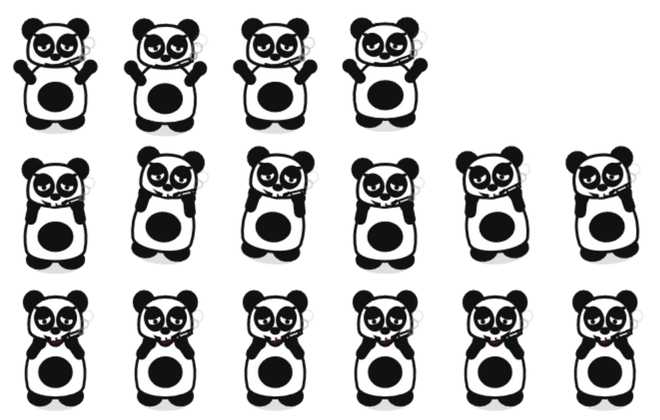
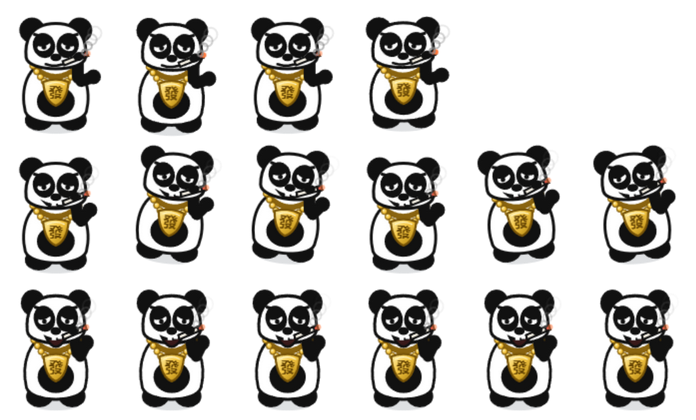
熊猫人重画：叼烟 + 手掐着烟 + 大金链子，整体更夸张
- 左手抬到嘴边，两根手指捏住烟身，烟从嘴里斜插出来被手掐着，
  烟头还有一闪一闪的火星
- 脖子挂一圈大金链子：13 颗带金属高光的金珠，
  下面坠一块夸张的大金牌，牌面一个「發」字
- 头、眼罩、耳朵都加大，身子也加宽，撑得起链子
- 全图只有金链子是高饱和色，故意在黑白画面里形成冲击
- 表情保持原样：黑眼罩 + 半眯懒眼 + 粗斜眉 + 歪嘴
- 烟圈改从手掐的位置飘出来

diff --git a/build/make-skins.js b/build/make-skins.js
@@ -303,130 +303,189 @@ function drawDragon(ctx, q, p, kind) {
 }
 
 /* ============================================================ ③ 熊猫人 */
-/* 抽象版熊猫人：直接照「熊猫头」梗图的画法 —— 黑白两色、粗线条、
-   白脸膛 + 黑耳朵 + 黑眼罩，里面塞一张手绘的「三分讥笑」脸，还叼根烟。 */
+/* 夸张版熊猫头：嘴里叼烟、手抬起来掐着烟、脖挂大金链子
+   画风沿用梗图那套：纯黑白 + 粗线条，金链子是全图唯一的高饱和色，
+   故意做得又粗又亮，形成「黑白画面里一条大金链子」的冲击感。 */
 function drawPanda(ctx, q, p, kind) {
   const LINE = '#111111';
   const look = Math.sin(p * TAU) * 2.4;
   const smug = kind === 'cheer' ? 1 : kind === 'dance' ? 0.6 : 0.3;
-  const smoke = (p * 2) % 1;                       // 吐烟的节奏
-  shadow(ctx, 56, 24);
+  const smoke = (p * 2) % 1;
+  shadow(ctx, 58, 28);
 
-  /* 黑腿 */
+  /* ---- 黑腿 ---- */
   [-1, 1].forEach(function (sg) {
-    ctx.beginPath(); ctx.ellipse(sg * 18, 46, 14, 10, 0, 0, TAU);
+    ctx.beginPath(); ctx.ellipse(sg * 20, 48, 15, 11, 0, 0, TAU);
     ctx.fillStyle = '#111111'; ctx.fill();
     ctx.lineWidth = 3; ctx.strokeStyle = LINE; ctx.stroke();
   });
 
-  /* 白身子 + 黑肚子 */
+  /* ---- 白身子（比上一版更宽，撑得起大链子） ---- */
   ctx.beginPath();
-  ctx.moveTo(0, -20);
-  ctx.bezierCurveTo(32, -20, 38, 14, 33, 36);
-  ctx.bezierCurveTo(28, 52, -28, 52, -33, 36);
-  ctx.bezierCurveTo(-38, 14, -32, -20, 0, -20);
-  ctx.closePath();
-  ctx.fillStyle = '#FFFFFF'; ctx.fill();
-  ctx.lineWidth = 3.2; ctx.strokeStyle = LINE; ctx.stroke();
-  ctx.beginPath(); ctx.ellipse(0, 20, 19, 16, 0, 0, TAU);
-  ctx.fillStyle = '#111111'; ctx.fill();
-  ctx.lineWidth = 2.6; ctx.strokeStyle = LINE; ctx.stroke();
-
-  /* 黑手臂 */
-  const a = -0.3 - q.arm * 2.0;
-  [-1, 1].forEach(function (sg) {
-    const ex = sg * (30 + Math.cos(a) * 17), ey = 0 + Math.sin(a) * 17;
-    ctx.lineCap = 'round';
-    ctx.beginPath(); ctx.moveTo(sg * 28, 0); ctx.lineTo(ex, ey);
-    ctx.lineWidth = 13; ctx.strokeStyle = '#111111'; ctx.stroke();
-    ctx.beginPath(); ctx.arc(ex, ey, 7, 0, TAU);
-    ctx.fillStyle = '#111111'; ctx.fill();
-    ctx.lineWidth = 2.6; ctx.strokeStyle = LINE; ctx.stroke();
-  });
-
-  /* 大黑耳朵（先在头后面画） */
-  [-1, 1].forEach(function (sg) {
-    ctx.beginPath(); ctx.arc(sg * 25, -56, 12, 0, TAU);
-    ctx.fillStyle = '#111111'; ctx.fill();
-    ctx.lineWidth = 3; ctx.strokeStyle = LINE; ctx.stroke();
-  });
-
-  /* 白脸膛 */
-  ctx.beginPath();
-  ctx.moveTo(0, -62);
-  ctx.bezierCurveTo(28, -62, 33, -42, 31, -26);
-  ctx.bezierCurveTo(29, -10, -29, -10, -31, -26);
-  ctx.bezierCurveTo(-33, -42, -28, -62, 0, -62);
+  ctx.moveTo(0, -22);
+  ctx.bezierCurveTo(36, -22, 42, 14, 36, 38);
+  ctx.bezierCurveTo(30, 56, -30, 56, -36, 38);
+  ctx.bezierCurveTo(-42, 14, -36, -22, 0, -22);
   ctx.closePath();
   ctx.fillStyle = '#FFFFFF'; ctx.fill();
   ctx.lineWidth = 3.4; ctx.strokeStyle = LINE; ctx.stroke();
+  /* 黑肚兜 */
+  ctx.beginPath(); ctx.ellipse(0, 26, 21, 17, 0, 0, TAU);
+  ctx.fillStyle = '#111111'; ctx.fill();
+  ctx.lineWidth = 2.6; ctx.strokeStyle = LINE; ctx.stroke();
 
-  /* 黑眼罩（斜着，就是熊猫头那两个黑块） */
-  ctx.fillStyle = '#111111';
-  ctx.beginPath(); ctx.ellipse(-13, -38, 12, 14, -0.34, 0, TAU); ctx.fill();
-  ctx.beginPath(); ctx.ellipse(13, -38, 12, 14, 0.34, 0, TAU); ctx.fill();
-
-  /* 懒散半眯的眼睛：眼白压成一条缝，眼神往下斜 */
-  ctx.fillStyle = '#FFFFFF';
-  ctx.beginPath(); ctx.ellipse(-13, -37, 7.5, 5, -0.34, 0, TAU); ctx.fill();
-  ctx.beginPath(); ctx.ellipse(13, -37, 7.5, 5, 0.34, 0, TAU); ctx.fill();
-  ctx.fillStyle = '#111111';
-  ctx.beginPath(); ctx.arc(-13 + look * 0.6, -36.5 + smug * 1.6, 2.6, 0, TAU); ctx.fill();
-  ctx.beginPath(); ctx.arc(13 + look * 0.6, -36.5 + smug * 1.6, 2.6, 0, TAU); ctx.fill();
-  /* 上眼皮（盖住上半边 = 不屑） */
-  ctx.fillStyle = '#111111';
-  ctx.beginPath(); ctx.ellipse(-13, -42, 8.6, 4.4, -0.34, 0, TAU); ctx.fill();
-  ctx.beginPath(); ctx.ellipse(13, -42, 8.6, 4.4, 0.34, 0, TAU); ctx.fill();
-
-  /* 粗斜眉 */
+  /* ---- 右臂：垂着插手 ---- */
+  const ra = -0.15 - q.arm * 1.1;
+  const rex = 34 + Math.cos(ra) * 12, rey = 8 + Math.sin(ra) * 22;
   ctx.lineCap = 'round';
-  ctx.strokeStyle = '#111111'; ctx.lineWidth = 3.4;
-  ctx.beginPath(); ctx.moveTo(-23, -50); ctx.lineTo(-6, -46); ctx.stroke();
-  ctx.beginPath(); ctx.moveTo(23, -50); ctx.lineTo(6, -46); ctx.stroke();
+  ctx.strokeStyle = '#111111'; ctx.lineWidth = 14;
+  ctx.beginPath(); ctx.moveTo(30, 2); ctx.lineTo(rex, rey); ctx.stroke();
+  ctx.beginPath(); ctx.arc(rex, rey, 7.5, 0, TAU);
+  ctx.fillStyle = '#111111'; ctx.fill();
+  ctx.lineWidth = 2.6; ctx.strokeStyle = LINE; ctx.stroke();
 
-  /* 鼻子 */
+  /* ---- 大金链子：一圈金珠子 + 一块金牌 ---- */
+  const chainY = -12, chainR = 27;
+  ctx.strokeStyle = '#8A6410'; ctx.lineWidth = 6.5;
+  ctx.beginPath();
+  ctx.moveTo(-27, chainY - 4);
+  ctx.quadraticCurveTo(0, chainY + 22, 27, chainY - 4);
+  ctx.stroke();
+  /* 链珠 */
+  for (let i = 0; i <= 12; i++) {
+    const t = i / 12;
+    const bx = -27 + t * 54;
+    const by = chainY - 4 + Math.sin(t * Math.PI) * 26;
+    ctx.beginPath(); ctx.arc(bx, by, 3.6, 0, TAU);
+    const cg = ctx.createRadialGradient(bx - 1.2, by - 1.4, 0.4, bx, by, 4);
+    cg.addColorStop(0, '#FFF2B0'); cg.addColorStop(0.5, '#F5C542'); cg.addColorStop(1, '#B8860B');
+    ctx.fillStyle = cg; ctx.fill();
+    ctx.lineWidth = 1.1; ctx.strokeStyle = '#7A5608'; ctx.stroke();
+  }
+  /* 金牌（夸张的大，压着肚兜） */
+  const mx = 0, my = chainY + 26;
+  ctx.beginPath();
+  ctx.moveTo(mx - 15, my - 11);
+  ctx.quadraticCurveTo(mx, my - 17, mx + 15, my - 11);
+  ctx.quadraticCurveTo(mx + 13, my + 12, mx, my + 17);
+  ctx.quadraticCurveTo(mx - 13, my + 12, mx - 15, my - 11);
+  ctx.closePath();
+  const mg = ctx.createLinearGradient(mx - 15, my - 15, mx + 15, my + 15);
+  mg.addColorStop(0, '#FFF4B8'); mg.addColorStop(0.45, '#F7C948'); mg.addColorStop(1, '#B0830A');
+  ctx.fillStyle = mg; ctx.fill();
+  ctx.lineWidth = 2.6; ctx.strokeStyle = '#7A5608'; ctx.stroke();
+  ctx.lineWidth = 1.4; ctx.strokeStyle = 'rgba(255,250,210,.85)';
+  ctx.beginPath();
+  ctx.moveTo(mx - 10, my - 8);
+  ctx.quadraticCurveTo(mx, my - 13, mx + 10, my - 8);
+  ctx.stroke();
+  /* 牌面上的「發」 */
+  ctx.fillStyle = '#6B4A06';
+  ctx.font = 'bold 17px "Microsoft YaHei",sans-serif';
+  ctx.textAlign = 'center'; ctx.textBaseline = 'middle';
+  ctx.fillText('發', mx, my + 2);
+
+  /* ---- 左手：抬到嘴边掐着烟 ---- */
+  const ha = -1.45 - q.arm * 0.35;
+  const hx = 26 + Math.cos(ha) * 22, hy = -6 + Math.sin(ha) * 22;
+  ctx.strokeStyle = '#111111'; ctx.lineWidth = 14; ctx.lineCap = 'round';
+  ctx.beginPath(); ctx.moveTo(26, -2); ctx.lineTo(hx, hy); ctx.stroke();
+  /* 捏烟的两根手指 */
   ctx.fillStyle = '#111111';
-  ctx.beginPath(); ctx.ellipse(0, -25, 6, 4.2, 0, 0, TAU); ctx.fill();
+  ctx.beginPath(); ctx.arc(hx, hy, 7.2, 0, TAU); ctx.fill();
+  ctx.lineWidth = 2.4; ctx.strokeStyle = LINE; ctx.stroke();
 
-  /* 歪嘴：一边嘴角翘起来，就是那个「三分讥笑」 */
-  const mOpen = kind === 'cheer' ? 9 : kind === 'dance' ? 5 : 0;
+  /* ---- 大黑耳朵 ---- */
+  [-1, 1].forEach(function (sg) {
+    ctx.beginPath(); ctx.arc(sg * 28, -58, 13.5, 0, TAU);
+    ctx.fillStyle = '#111111'; ctx.fill();
+    ctx.lineWidth = 3; ctx.strokeStyle = LINE; ctx.stroke();
+  });
+
+  /* ---- 白脸膛（加大，夸张） ---- */
+  ctx.beginPath();
+  ctx.moveTo(0, -66);
+  ctx.bezierCurveTo(31, -66, 37, -44, 35, -26);
+  ctx.bezierCurveTo(33, -8, -33, -8, -35, -26);
+  ctx.bezierCurveTo(-37, -44, -31, -66, 0, -66);
+  ctx.closePath();
+  ctx.fillStyle = '#FFFFFF'; ctx.fill();
+  ctx.lineWidth = 3.6; ctx.strokeStyle = LINE; ctx.stroke();
+
+  /* ---- 黑眼罩 ---- */
+  ctx.fillStyle = '#111111';
+  ctx.beginPath(); ctx.ellipse(-14, -40, 13, 15, -0.34, 0, TAU); ctx.fill();
+  ctx.beginPath(); ctx.ellipse(14, -40, 13, 15, 0.34, 0, TAU); ctx.fill();
+
+  /* ---- 懒散半眯眼 ---- */
+  ctx.fillStyle = '#FFFFFF';
+  ctx.beginPath(); ctx.ellipse(-14, -39, 8, 5.2, -0.34, 0, TAU); ctx.fill();
+  ctx.beginPath(); ctx.ellipse(14, -39, 8, 5.2, 0.34, 0, TAU); ctx.fill();
+  ctx.fillStyle = '#111111';
+  ctx.beginPath(); ctx.arc(-14 + look * 0.6, -38.5 + smug * 1.7, 2.8, 0, TAU); ctx.fill();
+  ctx.beginPath(); ctx.arc(14 + look * 0.6, -38.5 + smug * 1.7, 2.8, 0, TAU); ctx.fill();
+  ctx.fillStyle = '#111111';
+  ctx.beginPath(); ctx.ellipse(-14, -44, 9.2, 4.6, -0.34, 0, TAU); ctx.fill();
+  ctx.beginPath(); ctx.ellipse(14, -44, 9.2, 4.6, 0.34, 0, TAU); ctx.fill();
+
+  /* ---- 粗斜眉 ---- */
+  ctx.strokeStyle = '#111111'; ctx.lineWidth = 3.6; ctx.lineCap = 'round';
+  ctx.beginPath(); ctx.moveTo(-25, -53); ctx.lineTo(-6, -48); ctx.stroke();
+  ctx.beginPath(); ctx.moveTo(25, -53); ctx.lineTo(6, -48); ctx.stroke();
+
+  /* ---- 鼻子 ---- */
+  ctx.fillStyle = '#111111';
+  ctx.beginPath(); ctx.ellipse(0, -26, 6.4, 4.4, 0, 0, TAU); ctx.fill();
+
+  /* ---- 嘴：叼着烟的那边被烟顶着，歪着嘴 ---- */
+  const mOpen = kind === 'cheer' ? 10 : kind === 'dance' ? 5.5 : 0;
   ctx.strokeStyle = '#111111'; ctx.lineWidth = 3; ctx.lineCap = 'round';
   if (mOpen) {
     ctx.beginPath();
-    ctx.moveTo(-11, -18);
-    ctx.quadraticCurveTo(0, -18 + mOpen * 2.2, 14, -21);
-    ctx.quadraticCurveTo(2, -13, -11, -18);
+    ctx.moveTo(-12, -19);
+    ctx.quadraticCurveTo(0, -19 + mOpen * 2.3, 15, -22);
+    ctx.quadraticCurveTo(2, -13, -12, -19);
     ctx.closePath();
-    ctx.fillStyle = '#3A1A1A'; ctx.fill();
-    ctx.stroke();
+    ctx.fillStyle = '#3A1A1A'; ctx.fill(); ctx.stroke();
     ctx.fillStyle = '#FFFFFF';
-    ctx.fillRect(-5, -19.5, 5, 5);
-    ctx.fillRect(2, -20.5, 4.6, 4.6);
+    ctx.fillRect(-5, -21, 5.4, 5.4);
+    ctx.fillRect(2.5, -22, 5, 5);
   } else {
     ctx.beginPath();
-    ctx.moveTo(-11, -17);
-    ctx.quadraticCurveTo(1, -13, 14, -20);
+    ctx.moveTo(-12, -18);
+    ctx.quadraticCurveTo(1, -13, 15, -21);
     ctx.stroke();
   }
 
-  /* 叼着的烟 */
-  ctx.strokeStyle = LINE; ctx.lineWidth = 2.4; ctx.lineCap = 'round';
-  ctx.fillStyle = '#F5F0E6';
+  /* ---- 烟：从嘴里斜插出去，正好被手指捏住 ---- */
+  const cigAng = -0.38;
+  const cx0 = 9, cy0 = -19;
+  const cx1 = hx + Math.cos(cigAng) * 2, cy1 = hy + 12;
   ctx.save();
-  ctx.translate(16, -19);
-  ctx.rotate(-0.34);
-  ctx.beginPath(); ctx.rect(0, -2, 15, 4);
-  ctx.fill(); ctx.stroke();
+  ctx.translate(cx0, cy0);
+  ctx.rotate(cigAng);
+  ctx.fillStyle = '#F7F2E6';
+  ctx.beginPath(); ctx.rect(0, -2.6, 30, 5.2);
+  ctx.fill();
+  ctx.lineWidth = 2.4; ctx.strokeStyle = LINE; ctx.stroke();
   ctx.fillStyle = '#E2574C';
-  ctx.beginPath(); ctx.rect(12, -2, 3.5, 4); ctx.fill(); ctx.stroke();
+  ctx.beginPath(); ctx.rect(25, -2.6, 5, 5.2); ctx.fill(); ctx.stroke();
+  /* 烟头火星 */
+  ctx.fillStyle = 'rgba(255,120,60,' + (0.55 + 0.45 * Math.abs(Math.sin(p * TAU * 3))) + ')';
+  ctx.beginPath(); ctx.arc(31, 0, 3.2, 0, TAU); ctx.fill();
   ctx.restore();
-  /* 烟圈（待机时更明显） */
-  for (let i = 0; i < 3; i++) {
-    const t = (smoke + i * 0.33) % 1;
-    ctx.globalAlpha = (1 - t) * (kind === 'idle' ? 0.85 : 0.5);
-    ctx.strokeStyle = '#8A8A8A'; ctx.lineWidth = 2;
+  /* 捏烟的手指（盖在烟上，形成「掐着」的感觉） */
+  ctx.fillStyle = '#111111';
+  ctx.beginPath(); ctx.ellipse(hx + 1, hy + 1, 5.4, 4.2, cigAng, 0, TAU); ctx.fill();
+  ctx.lineWidth = 2; ctx.strokeStyle = LINE; ctx.stroke();
+
+  /* ---- 烟圈（待机时最明显） ---- */
+  for (let i = 0; i < 4; i++) {
+    const t = (smoke + i * 0.25) % 1;
+    ctx.globalAlpha = (1 - t) * (kind === 'idle' ? 0.8 : 0.45);
+    ctx.strokeStyle = '#8A8A8A'; ctx.lineWidth = 2.2;
     ctx.beginPath();
-    ctx.arc(30 + t * 12, -24 - t * 26, 3 + t * 5, 0, TAU);
+    ctx.arc(cx1 + 6 + t * 16, cy1 - 16 - t * 30, 3 + t * 6.5, 0, TAU);
     ctx.stroke();
   }
   ctx.globalAlpha = 1;
